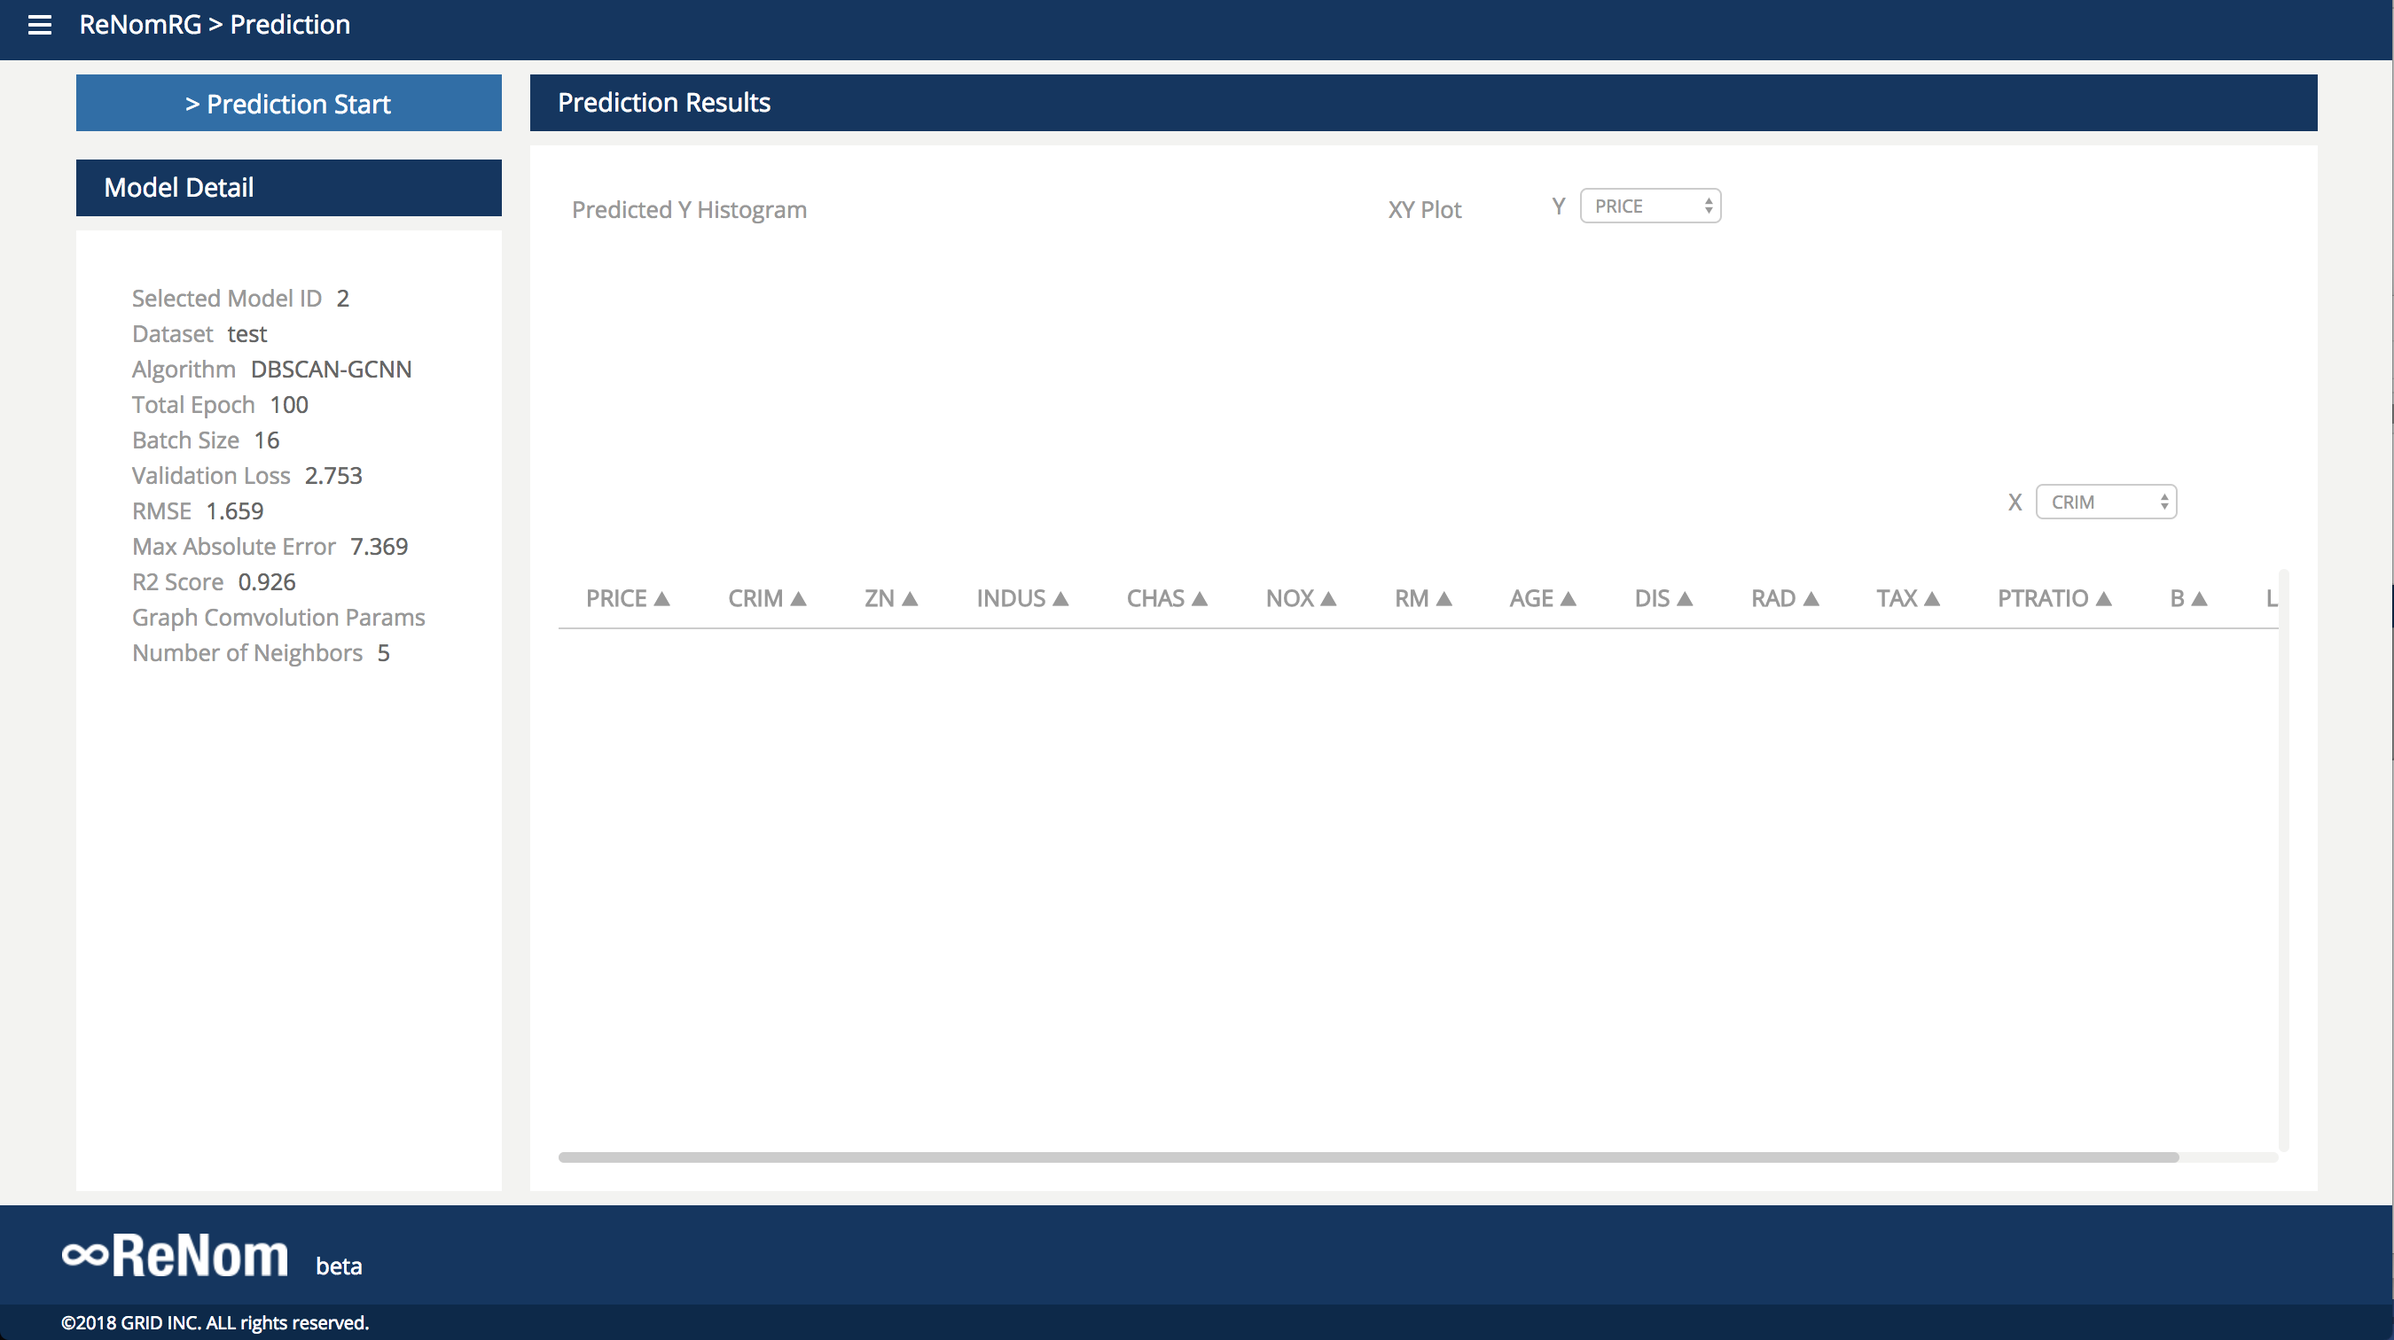
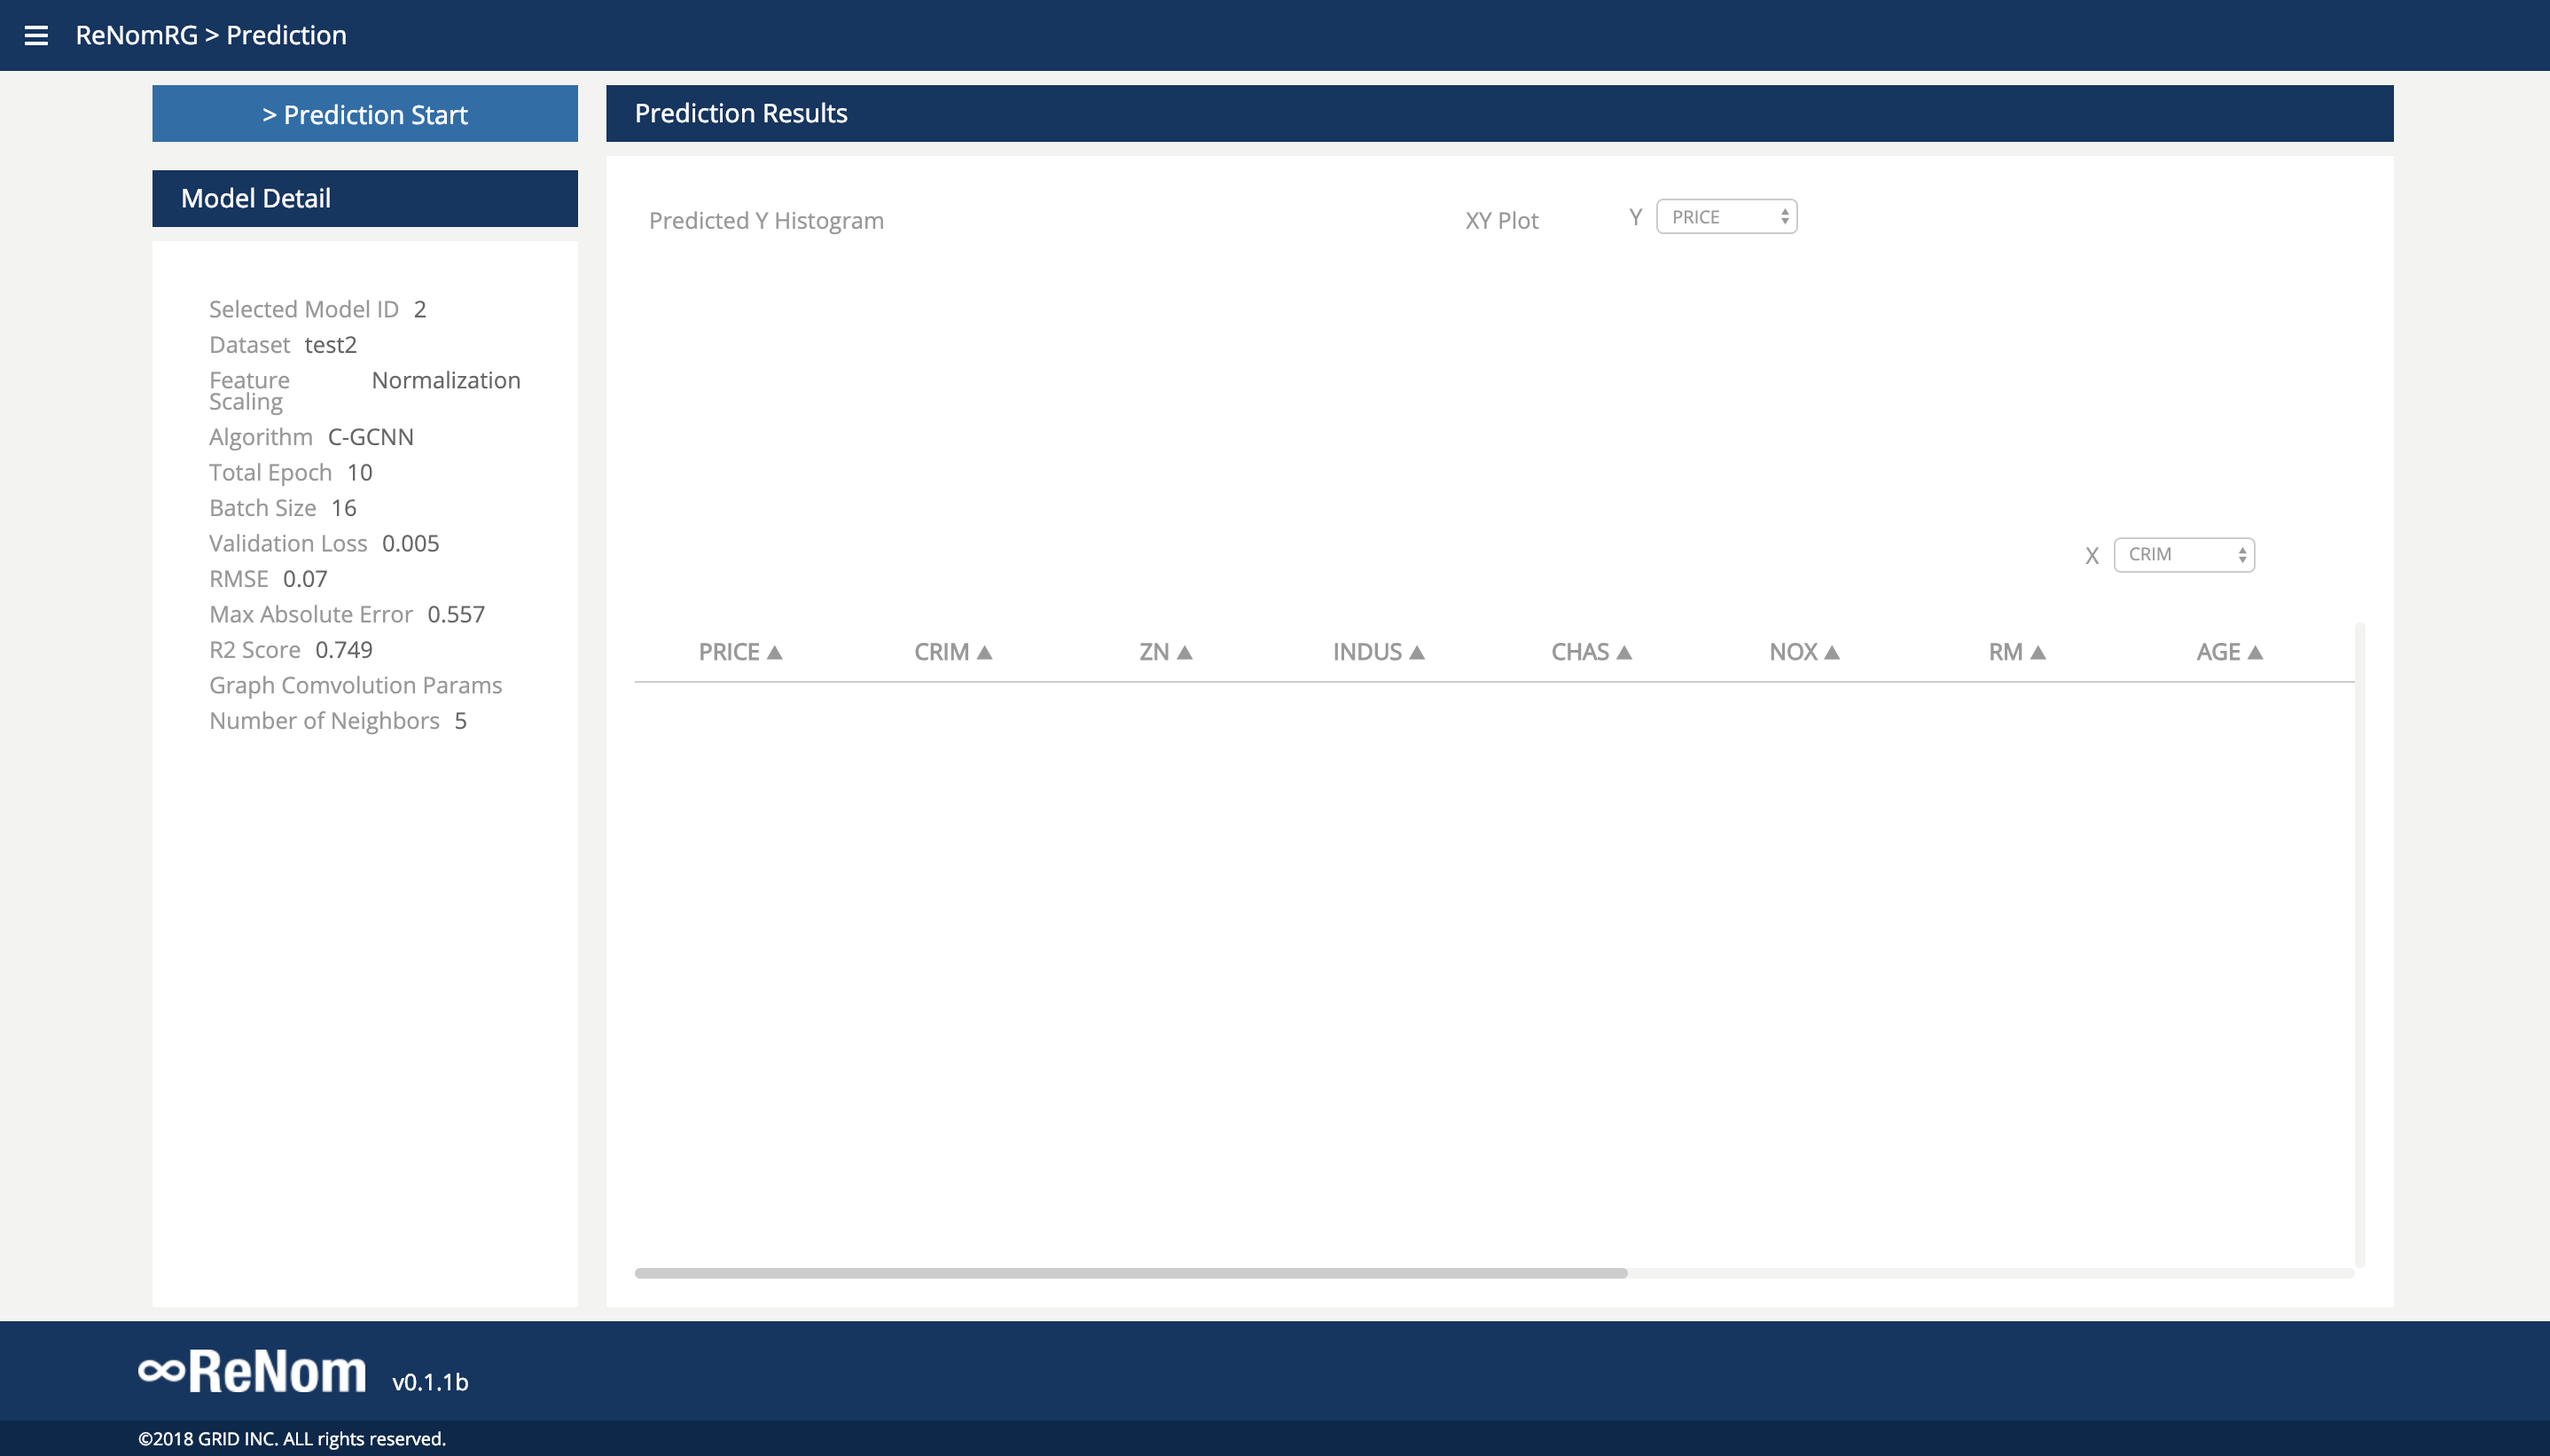
#35：0.2リリース準備

diff --git a/js/src/components/common/app_footer.vue b/js/src/components/common/app_footer.vue
@@ -22,7 +22,7 @@
 <script>
 export default {
   name: 'AppFooter',
-  data: function () { return { 'version': 'v0.1.1b' } }
+  data: function () { return { 'version': 'v0.2.0b' } }
 }
 </script>
 

diff --git a/setup.py b/setup.py
@@ -55,7 +55,7 @@ class BuildNPM(distutils.command.build.build):
 
 setup(
     name="renom_rg",
-    version="0.1.1b",
+    version="0.2.0b",
     entry_points=entry_points,
     packages=['renom_rg'],
     install_requires=requires,

diff --git a/renom_rg/__init__.py b/renom_rg/__init__.py
@@ -1,1 +1,1 @@
-__version__ = "0.1.1b"
+__version__ = "0.2.0b"

diff --git a/README.md b/README.md
@@ -1,4 +1,4 @@
-# ReNomRG 0.1b
+# ReNomRG 0.2b
 
 ReNom RG is model developing tool for regression using Graph CNN.
 
@@ -29,11 +29,11 @@ The Wheel package is provided at:
 
 `https://grid-devs.gitlab.io/ReNomRG/bin/renom_rg-VERSION-py3-none-any.whl`
 
-(VERSION is stands for actual version number e.g. 0.0.1, 0.1.1b(beta version))
+(VERSION is stands for actual version number e.g. 0.0.1, 0.1.1b(beta version), 0.2.0b(beta version))
 
 You can install the wheel package with pip command::
 
-`pip install https://grid-devs.gitlab.io/ReNomRG/bin/renom_rg-0.1.1b0-py3-none-any.whl`
+`pip install https://grid-devs.gitlab.io/ReNomRG/bin/renom_rg-0.2.0b0-py3-none-any.whl`
 
 ### Install from source
 For installing ReNomRG, download the repository from following url.
@@ -119,6 +119,12 @@ The detail of how to use is refer follow.
 https://www.renom.jp/packages/renomrg/rsts/how_to_use.html
 
 ## Change log
+
+### v0.1beta => v0.2b
+
+- Explanatory variables and target variables can be selected when creating a dataset.
+- Feature Scaling can be selected when creating a dataset.
+- The prediction result can be saved as CSV data.
 
 ### v0.0beta => v0.1b
 

diff --git a/doc/rsts/how_to_use_gui_ja.rst b/doc/rsts/how_to_use_gui_ja.rst
@@ -90,7 +90,7 @@ Newボタンを押してください。
 
 .. image:: /_static/image/setting_dataset.png
 
-データセット名、説明、学習データの比率を選択することができます。
+データセット名、説明、学習データの比率、前処理方法、説明・目的変数を選択することができます。
 フォームを入力し、confirmボタンを押すと、データセットの確認画面が表示されます。
 
 .. image:: /_static/image/setting_dataset_confirm.png

diff --git a/doc/rsts/how_to_use_gui.rst b/doc/rsts/how_to_use_gui.rst
@@ -88,7 +88,7 @@ The following page will be appeared.
 
 .. image:: /_static/image/setting_dataset.png
 
-As you can see, you can specify the dataset name, ''description'' and ratio of training data.
+As you can see, you can specify the dataset name, ''description'', ratio of training data, feature scaling and Valiables.
 After filling all forms, push the confirm button to confirm the dataset.
 
 .. image:: /_static/image/setting_dataset_confirm.png

diff --git a/doc/rsts/installation/main.rst b/doc/rsts/installation/main.rst
@@ -35,11 +35,11 @@ The Wheel package is provided at:
 
     https://grid-devs.gitlab.io/ReNomRG/bin/renom_rg-VERSION-py3-none-any.whl
 
-Install 0.1.0b0(beta version) is follow.
+Install 0.2.0b0(beta version) is follow.
 
   .. code-block:: shell
 
-      pip install https://grid-devs.gitlab.io/ReNomRG/bin/renom_rg-0.1.0b0-py3-none-any.whl
+      pip install https://grid-devs.gitlab.io/ReNomRG/bin/renom_rg-0.2.0b0-py3-none-any.whl
 
 
   .. note::

diff --git a/doc/rsts/change_log_ja.rst b/doc/rsts/change_log_ja.rst
@@ -1,6 +1,14 @@
 Change Log
 ==========
 
+v0.1beta => v0.2.0b
+-------------------
+
+- データセット作成時、説明変数と目的変数が選択可能になりました.
+- データセット作成時、前処理方法が選択可能になりました.
+- 予測結果をCSVデータ形式で保存することが可能になりました.
+
+
 v0.0beta => v0.1.0b
 -------------------
 

diff --git a/doc/rsts/change_log.rst b/doc/rsts/change_log.rst
@@ -1,6 +1,14 @@
 Change Log
 ==========
 
+v0.1beta => v0.2.0b
+-------------------
+
+- Explanatory variables and target variables can be selected when creating a dataset.
+- Feature Scaling can be selected when creating a dataset.
+- The prediction result can be saved as CSV data.
+
+
 v0.0beta => v0.1.0b
 -------------------
 

diff --git a/doc/index.rst b/doc/index.rst
@@ -3,7 +3,7 @@
    You can adapt this file completely to your liking, but it should at least
    contain the root `toctree` directive.
 
-ReNomRG 0.1.0b
+ReNomRG 0.2.0b
 ==============
 
 .. toctree::
